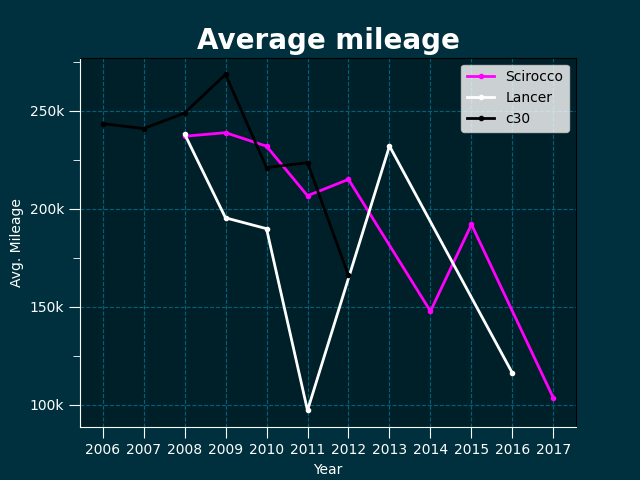
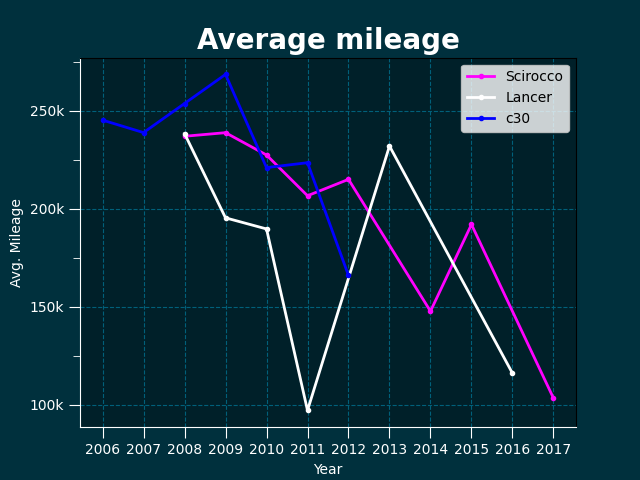
Plots and DB update

diff --git a/price_plot.py b/price_plot.py
@@ -4,7 +4,7 @@ import sqlite3 as sql
 import matplotlib.pyplot as plt
 from matplotlib.ticker import MultipleLocator as ML
 import matplotlib.ticker as ticker
-conn = sql.connect("C:/Users/mwppl/Desktop/Code/Full-Stack-Project/otofeature/deals.db")
+conn = sql.connect("./otofeature/deals.db")
 c = conn.cursor()
 
 c.execute("SELECT ROUND(avg(price)), model, year from Cars group by model, year order by model, year")
@@ -21,7 +21,7 @@ ax.plot(single_plot.year, single_plot.avg_prices, label = "Scirocco", linewidth 
 single_plot("Lancer")
 ax.plot(single_plot.year, single_plot.avg_prices, label = "Lancer", linewidth = 2, marker =".", color="white")
 single_plot("c30")
-ax.plot(single_plot.year, single_plot.avg_prices, label = "c30", linewidth = 2, marker =".", color="black")
+ax.plot(single_plot.year, single_plot.avg_prices, label = "c30", linewidth = 2, marker =".", color="blue")
 
 titleparams = {                                                             #Title parameters
 'fontsize': 20,

diff --git a/mileage_plot.py b/mileage_plot.py
@@ -4,7 +4,7 @@ import sqlite3 as sql
 import matplotlib.pyplot as plt
 from matplotlib.ticker import MultipleLocator as ML
 import matplotlib.ticker as ticker
-conn = sql.connect("C:/Users/mwppl/Desktop/Code/Full-Stack-Project/otofeature/deals.db")
+conn = sql.connect("./otofeature/deals.db")
 c = conn.cursor()
 
 c.execute("SELECT ROUND(avg(mileage)), model, year from Cars group by model, year order by model, year")
@@ -20,7 +20,7 @@ ax.plot(single_plot.year, single_plot.avg_mileage, label = "Scirocco", linewidth
 single_plot("Lancer")
 ax.plot(single_plot.year, single_plot.avg_mileage, label = "Lancer", linewidth = 2, marker =".", color="white")
 single_plot("c30")
-ax.plot(single_plot.year, single_plot.avg_mileage, label = "c30", linewidth = 2, marker =".", color="black")
+ax.plot(single_plot.year, single_plot.avg_mileage, label = "c30", linewidth = 2, marker =".", color="blue")
 
 titleparams = {
 'fontsize': 20,
